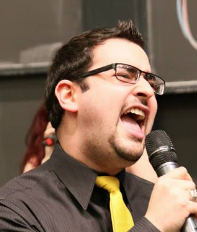
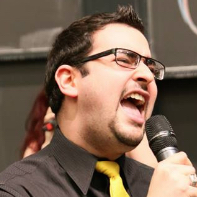
HTML page refactor and rounding image corners

diff --git a/members.js b/members.js
@@ -1,0 +1,12 @@
+$(document).ready(function(){
+
+  $.ajax({
+    url: "./members/members.json",
+    dataType: "json",
+    success: function(data) {
+      var template = document.getElementById('membersTemplate').innerHTML;
+      document.getElementById("page").innerHTML = Mustache.render(template, data);
+    }
+  });  
+
+});

diff --git a/css/styles.css b/css/styles.css
@@ -28,7 +28,10 @@ a:hover {
 
 .face {
     height: 200px;
+    width: auto;
+    border-radius: 10px;
 }
+
 
 #logo {
     height: 16vh;
@@ -41,3 +44,5 @@ a:hover {
 .event {
     padding: 10px;
 }
+
+
